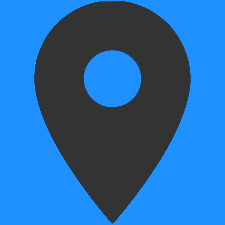
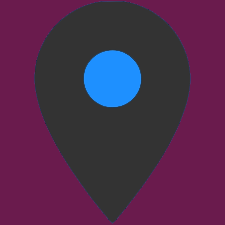
updating colors

diff --git a/style.css b/style.css
@@ -67,7 +67,7 @@ a {
   border-radius: 150px;
   filter: grayscale(100%);
   transition: transform 0.5s;
-  box-shadow: 0px 0px 60px #b9345a;
+  box-shadow: 0px 0px 60px #6a1b4d;
 }
 .intro-profile:hover {
   filter: grayscale(0%);
@@ -75,6 +75,8 @@ a {
 }
 .intro-header {
   font-weight: 600;
+  font-size: 32px;
+  color: #6a1b4d;
 }
 .intro-info {
   font-weight: 500;
@@ -102,7 +104,7 @@ a {
   border-radius: 50%;
   filter: grayscale(100%);
   transition: transform 0.5s;
-  box-shadow: 0px 0px 10px cyan;
+  box-shadow: 0px 0px 10px #6a1b4d;
 }
 .social-img:hover {
   filter: grayscale(0%);
@@ -124,6 +126,7 @@ a {
 
 .work-experience {
   z-index: 100;
+  border-radius: 20px;
 }
 .work-experience h1 {
   font-weight: 600;
@@ -136,7 +139,7 @@ a {
   width: 150px;
   height: 4px;
 
-  background: #7fff00;
+  background: #6a1b4d;
   margin: auto;
 }
 
@@ -149,10 +152,12 @@ a {
   width: 550px;
   height: 370px;
   box-shadow: #e03b8b 0px 7px 29px 0px;
+  border-radius: 13px;
 }
 .card-h2 {
   background-color: #e1ad9d;
   font-weight: 600;
+  border-radius: 13px;
   text-align: center;
 }
 .card-h3 {
@@ -230,7 +235,7 @@ a {
   width: 156px;
   height: 4px;
 
-  background: #7fff00;
+  background: #6a1b4d;
   margin: auto;
 }
 .skill-set {
@@ -242,7 +247,7 @@ a {
   background-color: #f0ffff;
 }
 .row-skills {
-  margin-top: 35px;
+  margin-top: 40px;
   display: flex;
   background-color: #f0ffff;
   transition: transform 0.5s;
@@ -250,7 +255,8 @@ a {
 .row-skills:hover {
   transform: scale(1.1, 1.1);
   border: 2px solid cyan;
-  box-shadow: cyan 0px 7px 29px 0px;
+  box-shadow: cyan 0px 7px 15px 0px;
+  padding-bottom: 0px;
 }
 .col-2-first {
   margin-left: 25px;
@@ -318,7 +324,7 @@ a {
   width: 150px;
   height: 4px;
 
-  background: #51e1ed;
+  background: #6a1b4d;
   margin: auto;
 }
 .row-ach {
@@ -328,53 +334,60 @@ a {
 
 .card-skill {
   position: relative;
-  background: #51e1ed;
+  background: #e1ad9d;
   margin-left: auto;
   margin-right: auto;
   margin-top: 100px;
   width: 400px;
   height: 190px;
-  box-shadow: greenyellow 0px 7px 29px 0px;
+  border-radius: 13px;
+  box-shadow: #6a1b4d 0px 7px 29px 0px;
   transition: transform 0.5s;
 }
 .card-skill:hover {
   transform: scale(1.1, 1.1);
 }
 .ach-title {
-  background-color: #51e1ed;
+  background-color: #e1ad9d;
   font-weight: 500;
   font-size: 20px;
   text-align: center;
   color: #383cc1;
+  border-radius: 10px;
 }
 
 .ach-content {
-  background-color: #51e1ed;
+  background-color: #e1ad9d;
   margin-top: 40px;
   text-align: center;
   font-weight: 500;
   line-height: 25px;
   font-size: 18px;
   color: #b4161b;
+  border-radius: 13px;
   /* font-family: "Sora" sans-serif; */
 }
+.border {
+  border-radius: 14px;
+}
 .link {
-  background-color: #51e1ed;
+  background-color: #e1ad9d;
   margin-top: 20px;
 }
 .card-skill a {
-  background-color: #51e1ed;
+  background-color: #e1ad9d;
   margin-left: 30%;
 }
 .card-project {
   position: relative;
-  background: #f7cd2e;
+  background: #e1ad9d;
   margin-left: auto;
   margin-right: auto;
   margin-top: 100px;
   width: 450px;
   height: 290px;
-  box-shadow: #3dbe29 0px 7px 29px 0px;
+  box-shadow: #6a1b4d 0px 7px 29px 0px;
+  border-radius: 13px;
   /* transition: transform 0.5s; */
 }
 .projects {
@@ -388,9 +401,10 @@ a {
 
 .project-title {
   font-family: sans-serif;
-  background-color: #f7cd2e;
+  background-color: #e1ad9d;
   font-weight: 400;
   text-align: center;
+  border-radius: 13px;
 }
 .project-title::after {
   content: "";
@@ -399,11 +413,11 @@ a {
   width: 300px;
   height: 2px;
 
-  background: #7fff00;
+  background: #6a1b4d;
   margin: auto;
 }
 .project-content {
-  background-color: #f7cd2e;
+  background-color: #e1ad9d;
   margin-top: 25px;
   color: green;
   font-weight: 400;
@@ -436,18 +450,18 @@ a {
 .row-contact {
   margin-top: 25px;
   height: 20vh;
-  background-color: #1e90ff;
+  background-color: #6a1b4d;
   display: flex;
   flex-wrap: wrap;
 }
 .col-contact {
-  background-color: #1e90ff;
+  background-color: #6a1b4d;
   flex-basis: 50%;
 }
 .contact-content {
   height: 15vh;
   width: 400px;
-  background-color: #1e90ff;
+  background-color: #6a1b4d;
   margin: auto;
   margin-top: 5%;
 }
@@ -458,7 +472,7 @@ a {
   font-size: 20px;
   margin-top: -35px;
   margin-left: 45px;
-  background-color: #1e90ff;
+  background-color: #6a1b4d;
 }
 .phone-png {
   margin-top: 8px;
@@ -466,7 +480,7 @@ a {
 }
 .phone {
   font-size: 20px;
-  background-color: #1e90ff;
+  background-color: #6a1b4d;
   margin-top: -32px;
   margin-left: 45px;
 }
@@ -476,7 +490,7 @@ a {
 }
 .address {
   font-size: 20px;
-  background-color: #1e90ff;
+  background-color: #6a1b4d;
   margin-top: -32px;
   margin-left: 45px;
 }

diff --git a/index.html b/index.html
@@ -391,7 +391,7 @@
               Ranked 1 (Junior Category) and 8th (Overall) out of 200 teams in
               Knuth Cup held by KPH 2020
             </h3>
-            <div class="link">
+            <div class="link border">
               <a href="#">View Leaderboard</a>
             </div>
           </div>
